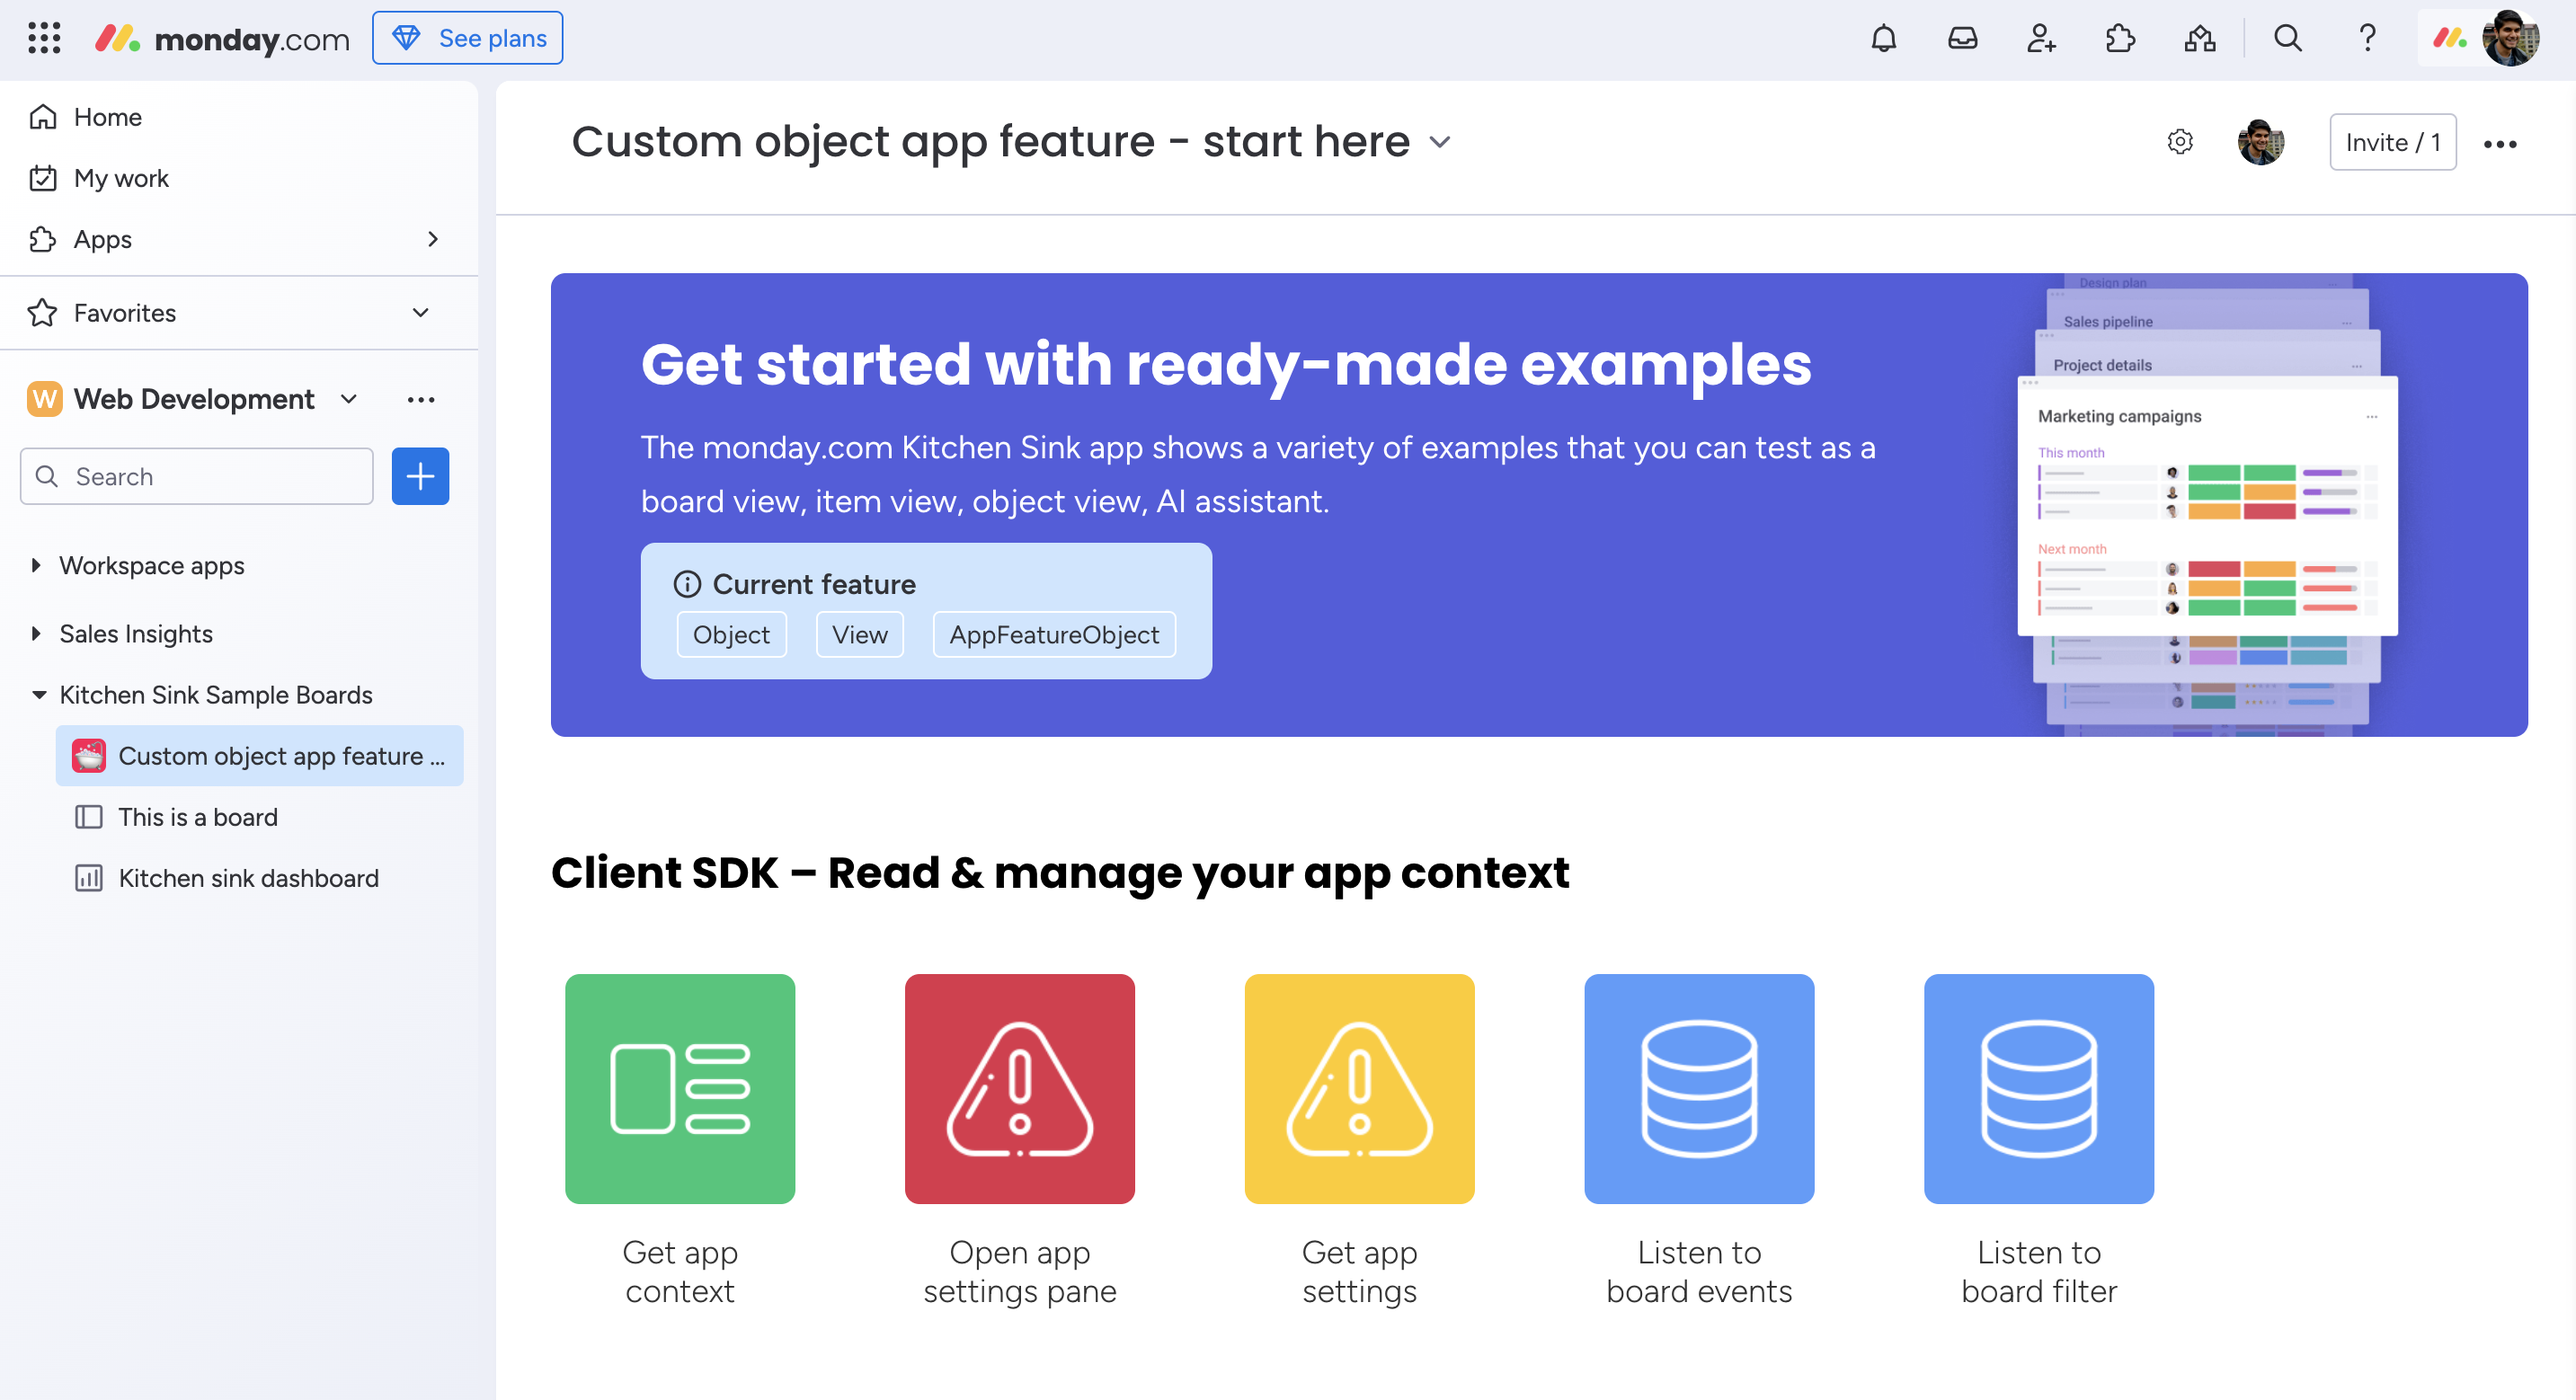
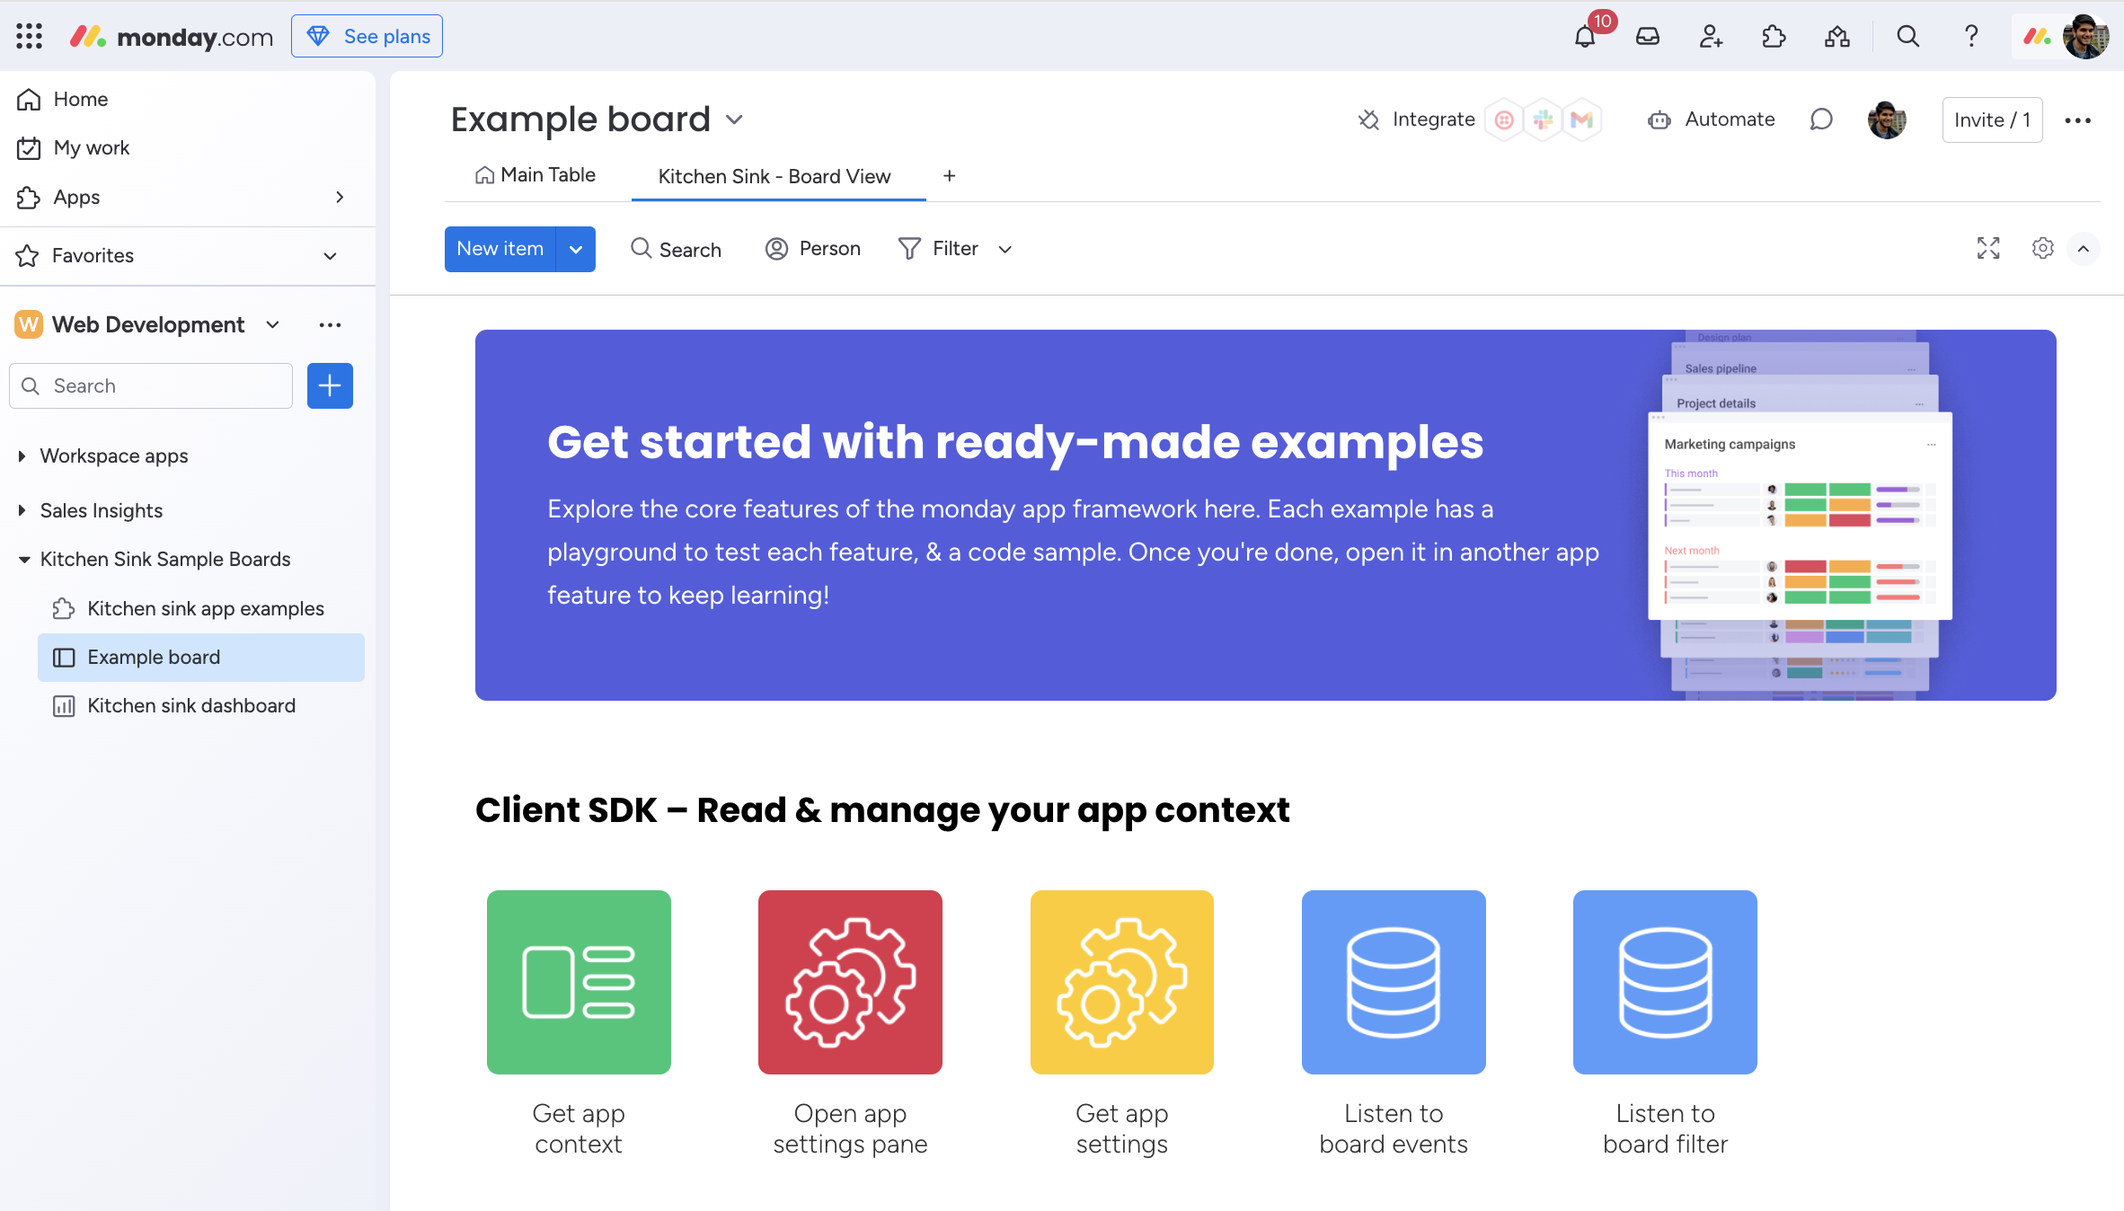
updated preview image & added link to dev acct

diff --git a/README.md b/README.md
@@ -17,7 +17,7 @@ Use this link to install the app in your demo account.
 </a>
 
 
-If you're a developer who wants to build apps for the monday ecosystem, you can sign up for a free developer account. 
+*If you're building & testing apps for the monday ecosystem, you can [sign up for a free developer account.](https://auth.monday.com/users/sign_up_new?developer=true&utm_source=github&utm_campaign=kitchensink)*
 
 ## Explore the examples
 
@@ -27,15 +27,15 @@ Once you've installed the app, there are two ways to use it:
 
 ### Start from template
 
-The app comes with a template to guide you through the monday apps framework. To use the template: 
+To use the template: 
 1. Open the monday Template Center (+ icon in leftpane > Template Center)
 2. Search for "Kitchen Sink Sample Boards"
 3. Add the template to your workspace
 
-The template contains 3 parts: 
+The template will guide you through the monday apps framework. It contains 3 parts: 
 - A board that explains the features of the app & monday
-- A dashboard with the app pre-loaded on it
 - A standalone Custom Object view, to use the app without a board or dashboard
+- A dashboard with the app pre-loaded
 
 ![Sample board](./src/assets/images/Kitchen-sink-example-board.png)
 
